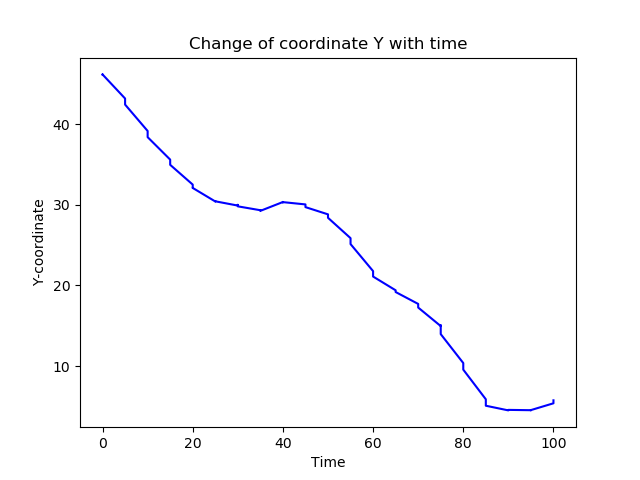
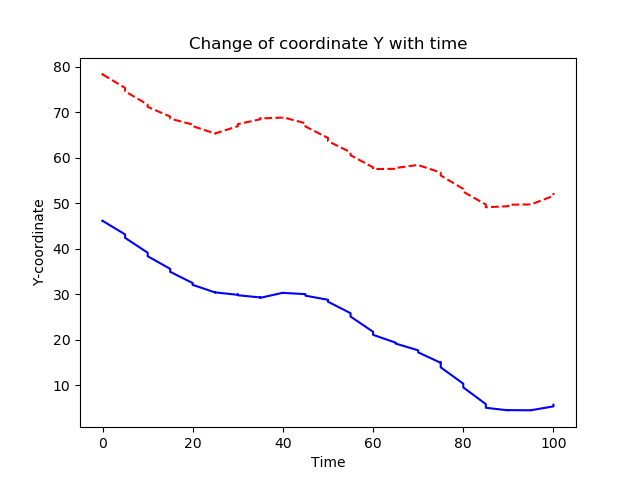
two graphs x

diff --git a/nodes/tf_reader.py b/nodes/tf_reader.py
@@ -51,7 +51,7 @@ def create_graphs(bag):
             except ExtrapolationException:
                 continue
     if len(cloud_combined) > 0:
-        create_graph_tf_and_point_cloud(cloud_combined, icp_x, icp_y)
+        create_graph_tf_and_point_cloud(cloud_combined, icp_x, icp_y, imu_x, imu_y)
         create_graph_x_coord_and_time(icp_x, imu_x, saved_times)
         create_graph_y_coord_and_time(icp_y, imu_y, saved_times)
         create_graph_z_coord_and_time(icp_z, imu_z, saved_times)
@@ -78,7 +78,7 @@ def load_buffer(bag):
     return buffer
 
 
-def create_graph_tf_and_point_cloud(cloud_combined, coord_x_robot, coord_y_robot):
+def create_graph_tf_and_point_cloud(cloud_combined, icp_x, icp_y, imu_x, imu_y):
     output_path = "/home/robert/catkin_ws/src/bag_crawler/nodes/web_server/shared_point_cloud.png"
     fig, ax = plt.subplots()
     marker_size = 0.5
@@ -89,8 +89,9 @@ def create_graph_tf_and_point_cloud(cloud_combined, coord_x_robot, coord_y_robot
     colors = combined_points[2, :]
     colors += abs(np.min(colors))
     transformed_colors = np.log1p(colors)
-    ax.scatter(combined_points[0, :], combined_points[1, :], s=marker_size, c=transformed_colors, cmap='Blues')
-    ax.plot(coord_x_robot, coord_y_robot, color='red')
+    ax.scatter(combined_points[0, :], combined_points[1, :], s=marker_size, c=transformed_colors, cmap='Greens')
+    ax.plot(icp_x, icp_y, color='blue')
+    ax.plot(imu_x, imu_y, color='red', linestyle='--')
     plt.savefig(output_path)
     plt.close()
 
